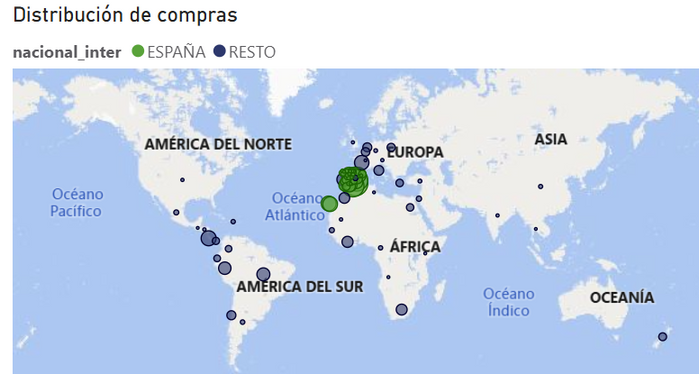
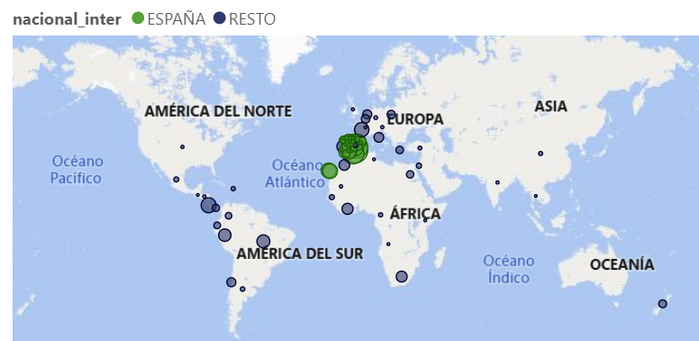
Unify chart language: English narrative figures rebuilt from the data, dashboard capture without redundant title

diff --git a/README.md b/README.md
@@ -34,13 +34,9 @@ Origin and sustainability analysis of **Mercamadrid, the largest fresh food dist
 
 ### Four supply patterns
 
-| **Always domestic: carrot** | **Always imported: pineapple** |
-|---|---|
-| ![Carrot pattern](figures/04_pattern_carrot.png) | ![Pineapple pattern](figures/05_pattern_pineapple.png) |
-| **Counter season imports: melon** | **Mixed supply: apple** |
-| ![Melon pattern](figures/06_pattern_melon.png) | ![Apple pattern](figures/07_pattern_apple.png) |
+![Four supply patterns](figures/04_supply_patterns.png)
 
-*Monthly kilos by origin (green: Spain, navy: imported). Every top vegetable falls into one of these four patterns. Melon is the clearest case of imports stepping in exactly when national production stops: year-round availability, at a cost.*
+*Monthly kilos by origin. Every top vegetable falls into one of these four patterns. Melon is the clearest case of imports stepping in exactly when national production stops: year-round availability, at a cost.*
 
 ### The cost of distance
 